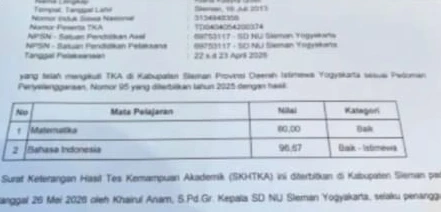
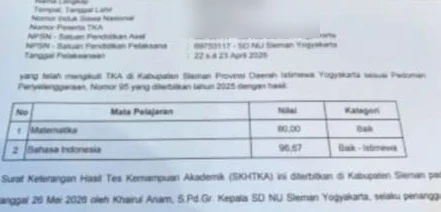
feat: revisi 1

Changed region(s): [[0.4422, 0.0, 0.737, 0.1981]]

diff --git a/src/data/testimonials.ts b/src/data/testimonials.ts
@@ -34,17 +34,17 @@ export interface TestimonialContact {
 export const testimonialsData: TestimonialContact[] = [
   {
     id: "wali-ahmad",
-    name: "Ibu Ahmad",
+    name: "Ibu A***",
     role: "Wali Murid SD Muhammadiyah",
     program: "Pendampingan ASAT & Ulangan Harian",
     avatarIcon: "cat",
     dateStr: "05/06/26",
-    previewSnippet: "Alhamdulillah Ahmad bagus2 nilainya... Dulu rata2 5, 6",
+    previewSnippet: "Alhamdulillah A*** bagus2 nilainya... Dulu rata2 5, 6",
     messages: [
       {
         id: "a-1",
         sender: "client",
-        text: "Assalamu'alaikum mbak Rahma... Mbakk.. Aku mau ngucapin terimakasih banyak utk bimbingan les selama ini.. Alhamdulillah Ahmad bagus2 nilainya...",
+        text: "Assalamu'alaikum mbak Rahma... Mbakk.. Aku mau ngucapin terimakasih banyak utk bimbingan les selama ini.. Alhamdulillah A*** bagus2 nilainya...",
         time: "05:51",
       },
       {
@@ -64,7 +64,7 @@ export const testimonialsData: TestimonialContact[] = [
       {
         id: "a-4",
         sender: "admin",
-        text: "Waalaikumsalam, alhamdulillah bu, semoga ini bisa dipertahankan nggih, dan saya juga minta maaf jika ada kekurangan selama mendampingi. Tetap semangat belajarnya Ahmad! 🙌💙",
+        text: "Waalaikumsalam, alhamdulillah bu, semoga ini bisa dipertahankan nggih, dan saya juga minta maaf jika ada kekurangan selama mendampingi. Tetap semangat belajarnya A***! 🙌💙",
         time: "06:05",
         status: "read",
       },

diff --git a/src/components/sections/footer-section.tsx b/src/components/sections/footer-section.tsx
@@ -133,9 +133,9 @@ export function FooterSection() {
           <h3 className="footer__col-title">Mata Pelajaran</h3>
           <ul className="footer__list">
             <li><span className="footer__item-text">Matematika</span></li>
-            <li><span className="footer__item-text">IPA / IPAS</span></li>
-            <li><span className="footer__item-text">Bahasa Inggris</span></li>
+            <li><span className="footer__item-text">IPAS</span></li>
             <li><span className="footer__item-text">Bahasa Indonesia</span></li>
+            <li><span className="footer__item-text">Bahasa Inggris</span></li>
             <li><span className="footer__item-text">Pendidikan Pancasila</span></li>
           </ul>
         </div>

diff --git a/src/data/value-props.ts b/src/data/value-props.ts
@@ -51,7 +51,7 @@ export const valuePropGridCells: ValuePropGridCell[] = [
         number: "03",
         badge: "Bebas Pilih Mapel",
         title: "Bebas Pilih Mata Pelajaran",
-        description: "Anak bebas memilih mata pelajaran yang ingin dibahas dalam setiap pertemuan (MTK, IPA, B.Inggris, dll).",
+        description: "Fokus Mata Pelajaran Utama: Matematika, IPAS, Bahasa Indonesia, Bahasa Inggris, dan Pendidikan Pancasila.",
       },
       {
         number: "04",
